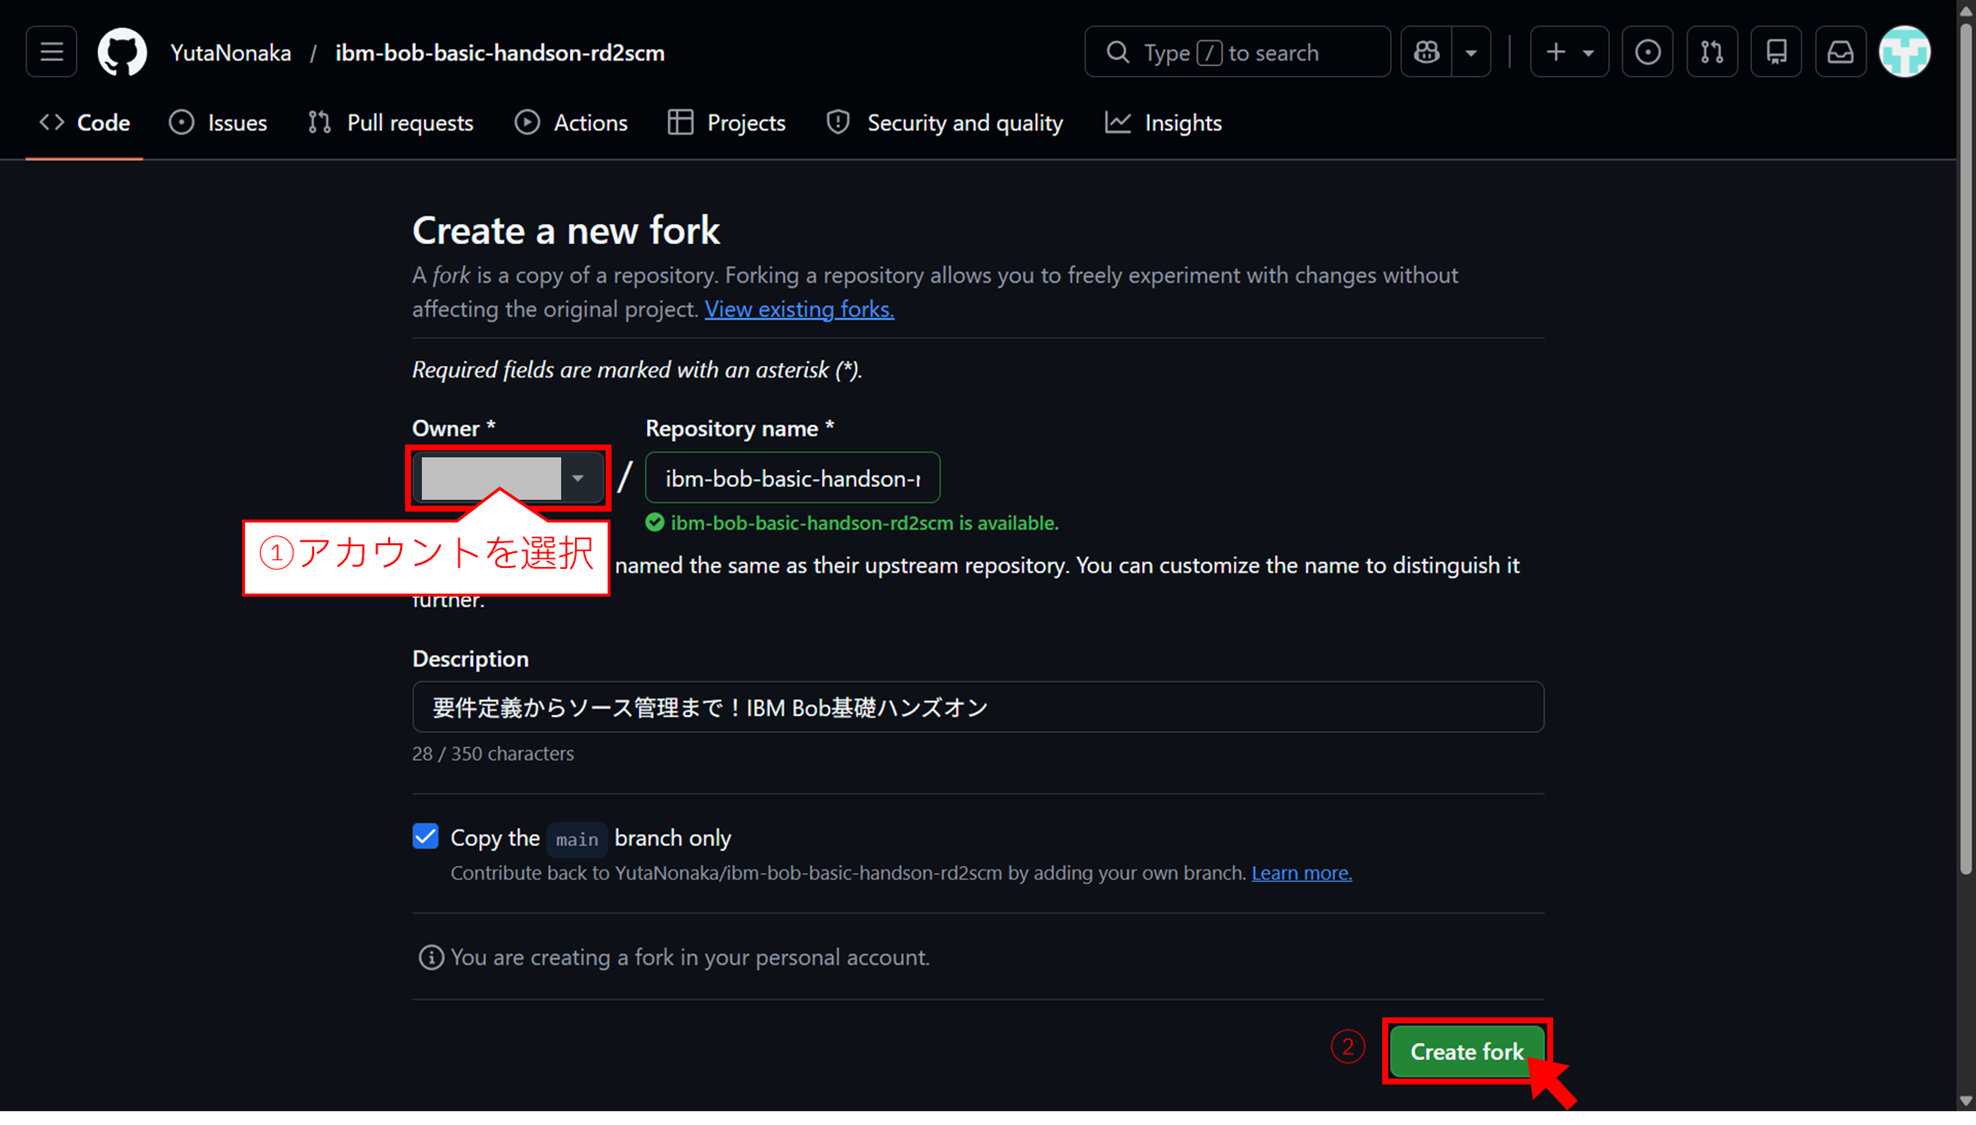
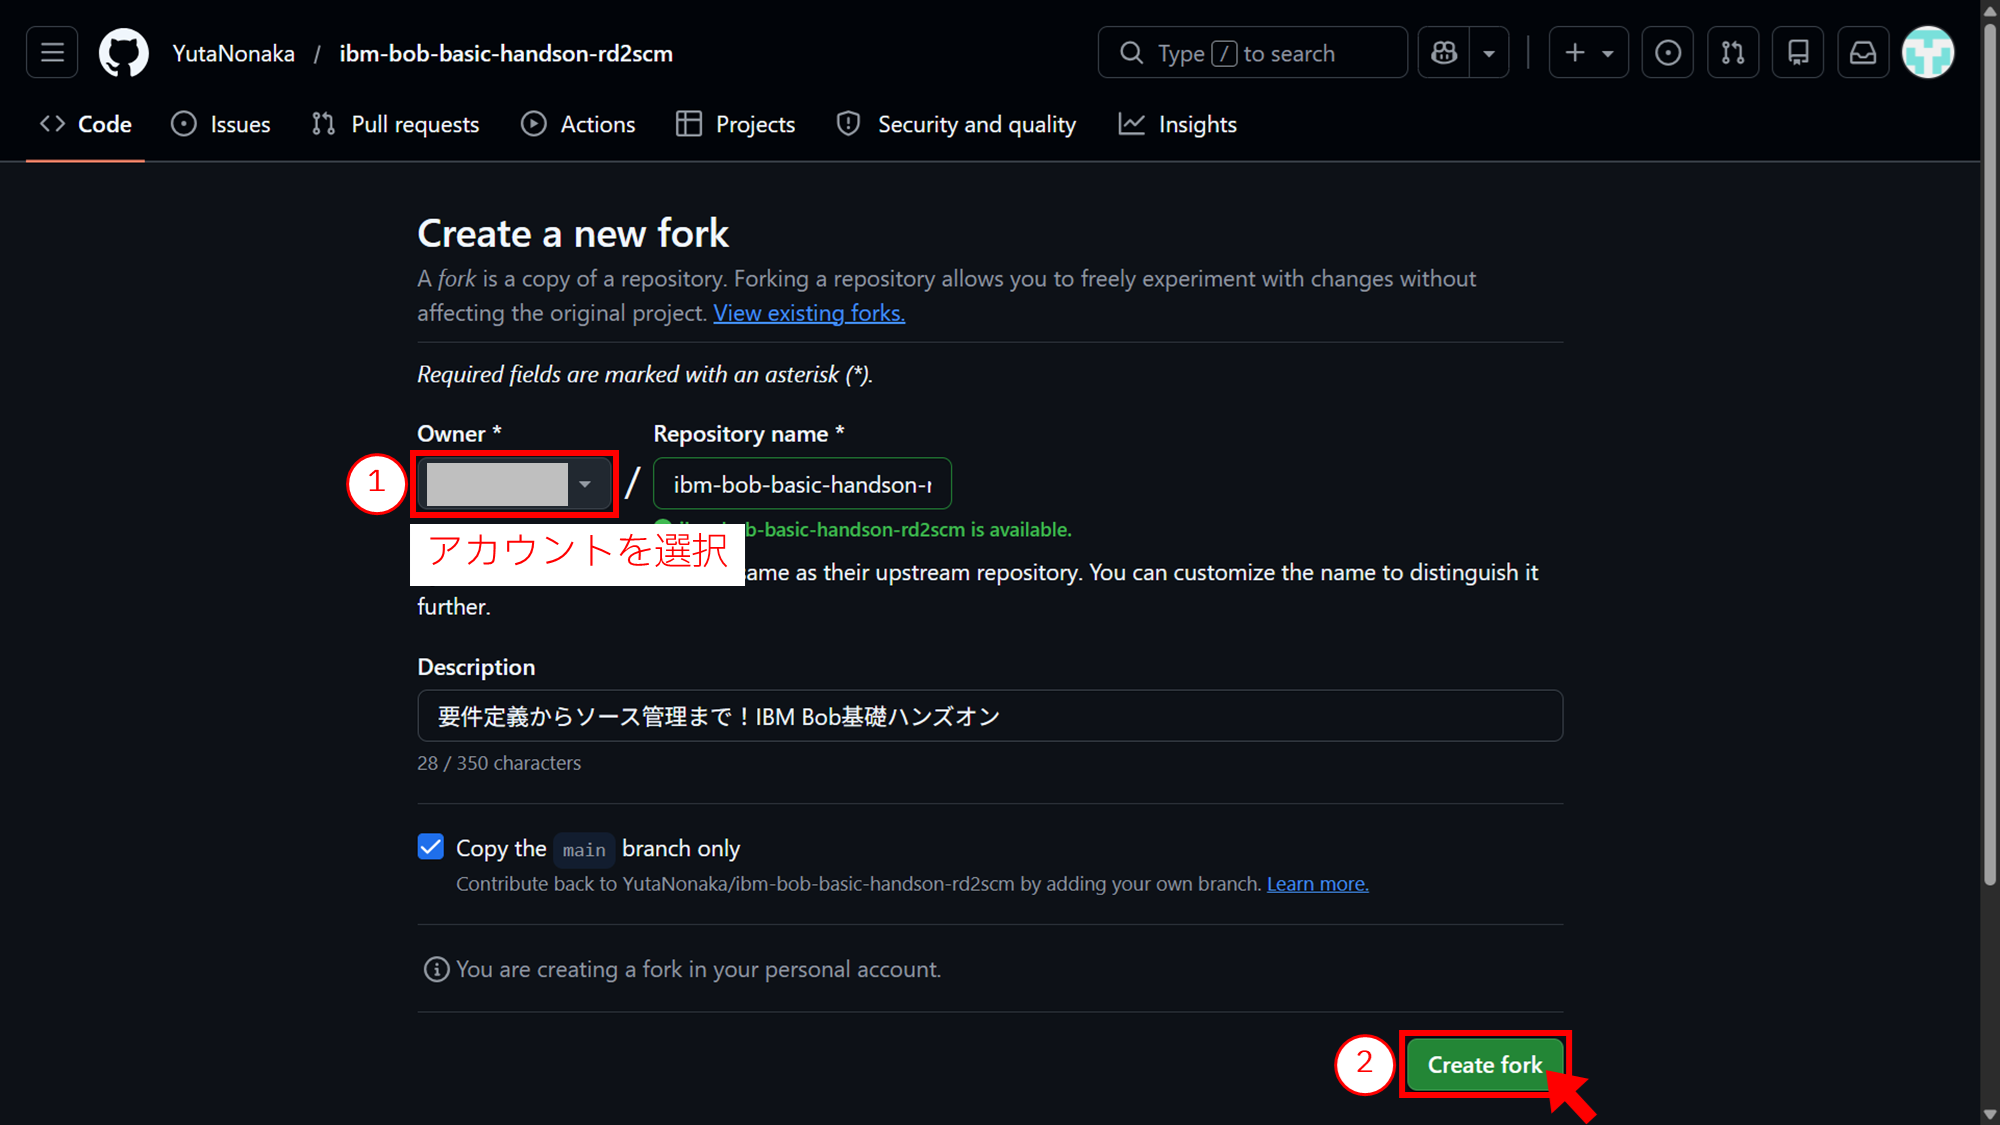
docs: add images and refine documentation instructions

diff --git a/Docs/source-control-lab.md b/Docs/source-control-lab.md
@@ -18,8 +18,6 @@ Lab3までで作成したFAQサイトのソースをGitで管理します。
 
 「新しいタスクを開始」を押して、セッションを切り替えてください。
 
-![新しいタスクを開始ボタン](画像パス予定)
-
 ## GitHubリポジトリへの差分反映
 ### 1. コミットメッセージの作成
 
@@ -31,15 +29,13 @@ IBM Bobのコミットメッセージ作成支援機能を使います。
 2. 「✨」アイコン（AI生成）をクリック
 3. Bobが差分を分析してメッセージを提案
 
-![コミットメッセージ生成ボタン](画像パス予定)
+![コミットメッセージ生成ボタン](/Image/source-control-lab/image.png)
 
 #### Bobが提案するメッセージの例：
 
 ```
 docs: add design and specification documents for FAQ site
 ```
-
-![生成されたコミットメッセージ](画像パス予定)
 
 #### ユーザーのアクション：
 
@@ -54,8 +50,6 @@ docs: add design and specification documents for FAQ site
 
 1. ソース管理パネルで「コミット」をクリック
 
-![コミット完了画面](画像パス予定)
-
 ### 3. 変更をリモートにプッシュ
 
 コミット後、変更をGitHubにプッシュします。
@@ -64,7 +58,9 @@ docs: add design and specification documents for FAQ site
 
 1. ソース管理パネルで「変更の同期」をクリック
 
-![変更の同期](画像パス予定)
+![変更の同期](/Image/source-control-lab/image-1.png)
+
+※GitHubの認証を求められた場合は認証処理を進めてください。
 
 ### 4. プルリクエストの作成
 
@@ -76,20 +72,16 @@ IBM Bobのプルリクエスト作成支援機能を使います。
 1. Bob IDEで「プルリクエストを作成」を選択
 2. Bobが変更内容を分析してPR説明文を生成
 
-![プルリクエスト作成メニュー](画像パス予定)
-
 #### 方法2: スラッシュコマンドで作成
 
 1. チャット画面で `/create-pr` と入力
 2. Bobが変更内容を分析してPR説明文を生成
 
-![/create-prコマンド実行画面](画像パス予定)
+![プルリクエスト作成メニューと/create-prコマンド](/Image/source-control-lab/image-2.png)
 
 #### PR説明文の生成：
 
 Bobが変更内容を分析して、PR説明文を提案します。
-
-![PR説明文生成画面](画像パス予定)
 
 #### 提案される説明文の例：
 
@@ -138,7 +130,7 @@ Provides comprehensive styling for the FAQ site including:
 - 説明文を確認・編集
 - 「Create pull request」をクリック
 
-![PR作成完了画面](画像パス予定)
+![PR作成完了画面](/Image/source-control-lab/image-3.png)
 
 ## Lab4タスクの完了
 
@@ -146,8 +138,6 @@ Provides comprehensive styling for the FAQ site including:
 
 コミットメッセージとプルリクエストの作成が完了しました！  
 IBM Bobを活用することで、変更内容を適切に記録し、チームに共有できます。
-
-![タスク完了画面](画像パス予定)
 
 **完了条件:**
 - コミットが作成された  
